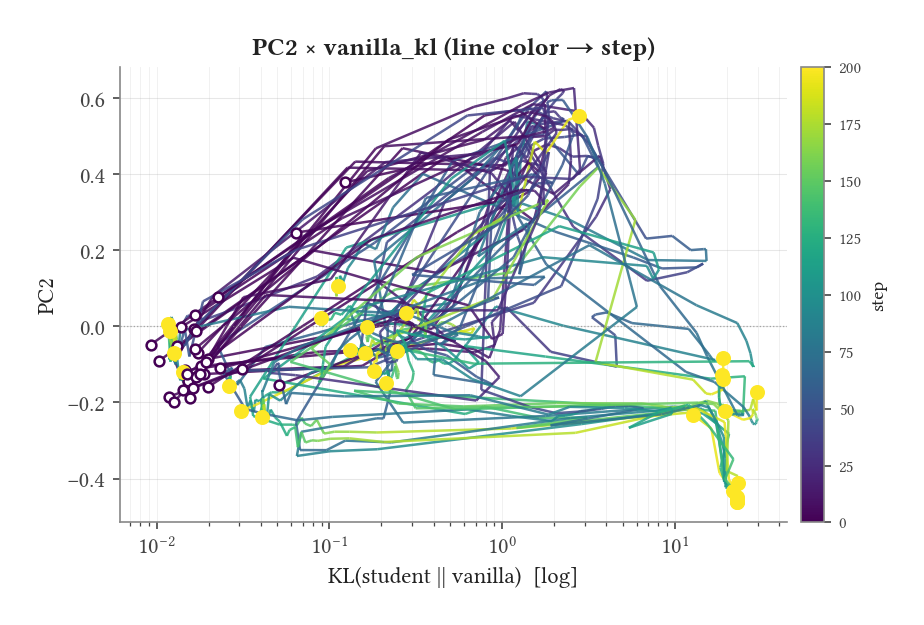
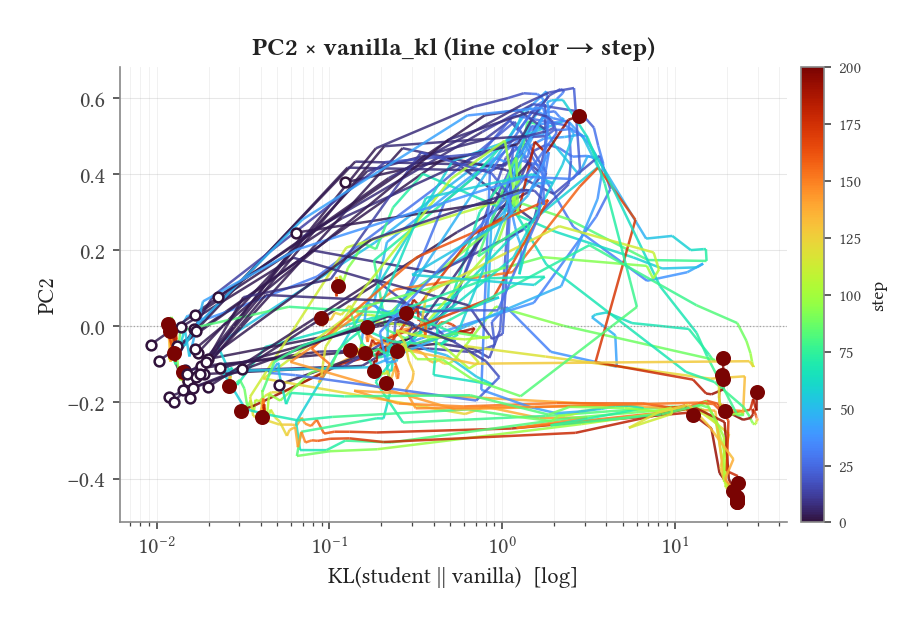
Default rainbow cmap is turbo (drop HSV pilot)
HSV is cyclic — start and end of the step range get the same color,
making endpoints ambiguous. turbo is a perceptually-uniform sequential
rainbow with distinct dark-blue → red endpoints.

Changed region(s): [[0.1515, 0.0912, 0.9091, 0.8208]]

diff --git a/scripts/figure_chain_pca_rainbow.py b/scripts/figure_chain_pca_rainbow.py
@@ -79,7 +79,7 @@ def main():
                         default="results/random_walk/shifts.pt")
     parser.add_argument("--out-prefix", default=None)
     parser.add_argument("--normalize", action="store_true")
-    parser.add_argument("--cmap", default="viridis")
+    parser.add_argument("--cmap", default="turbo")
     args = parser.parse_args()
 
     shifts_path = args.shifts_path if os.path.isabs(args.shifts_path) \
